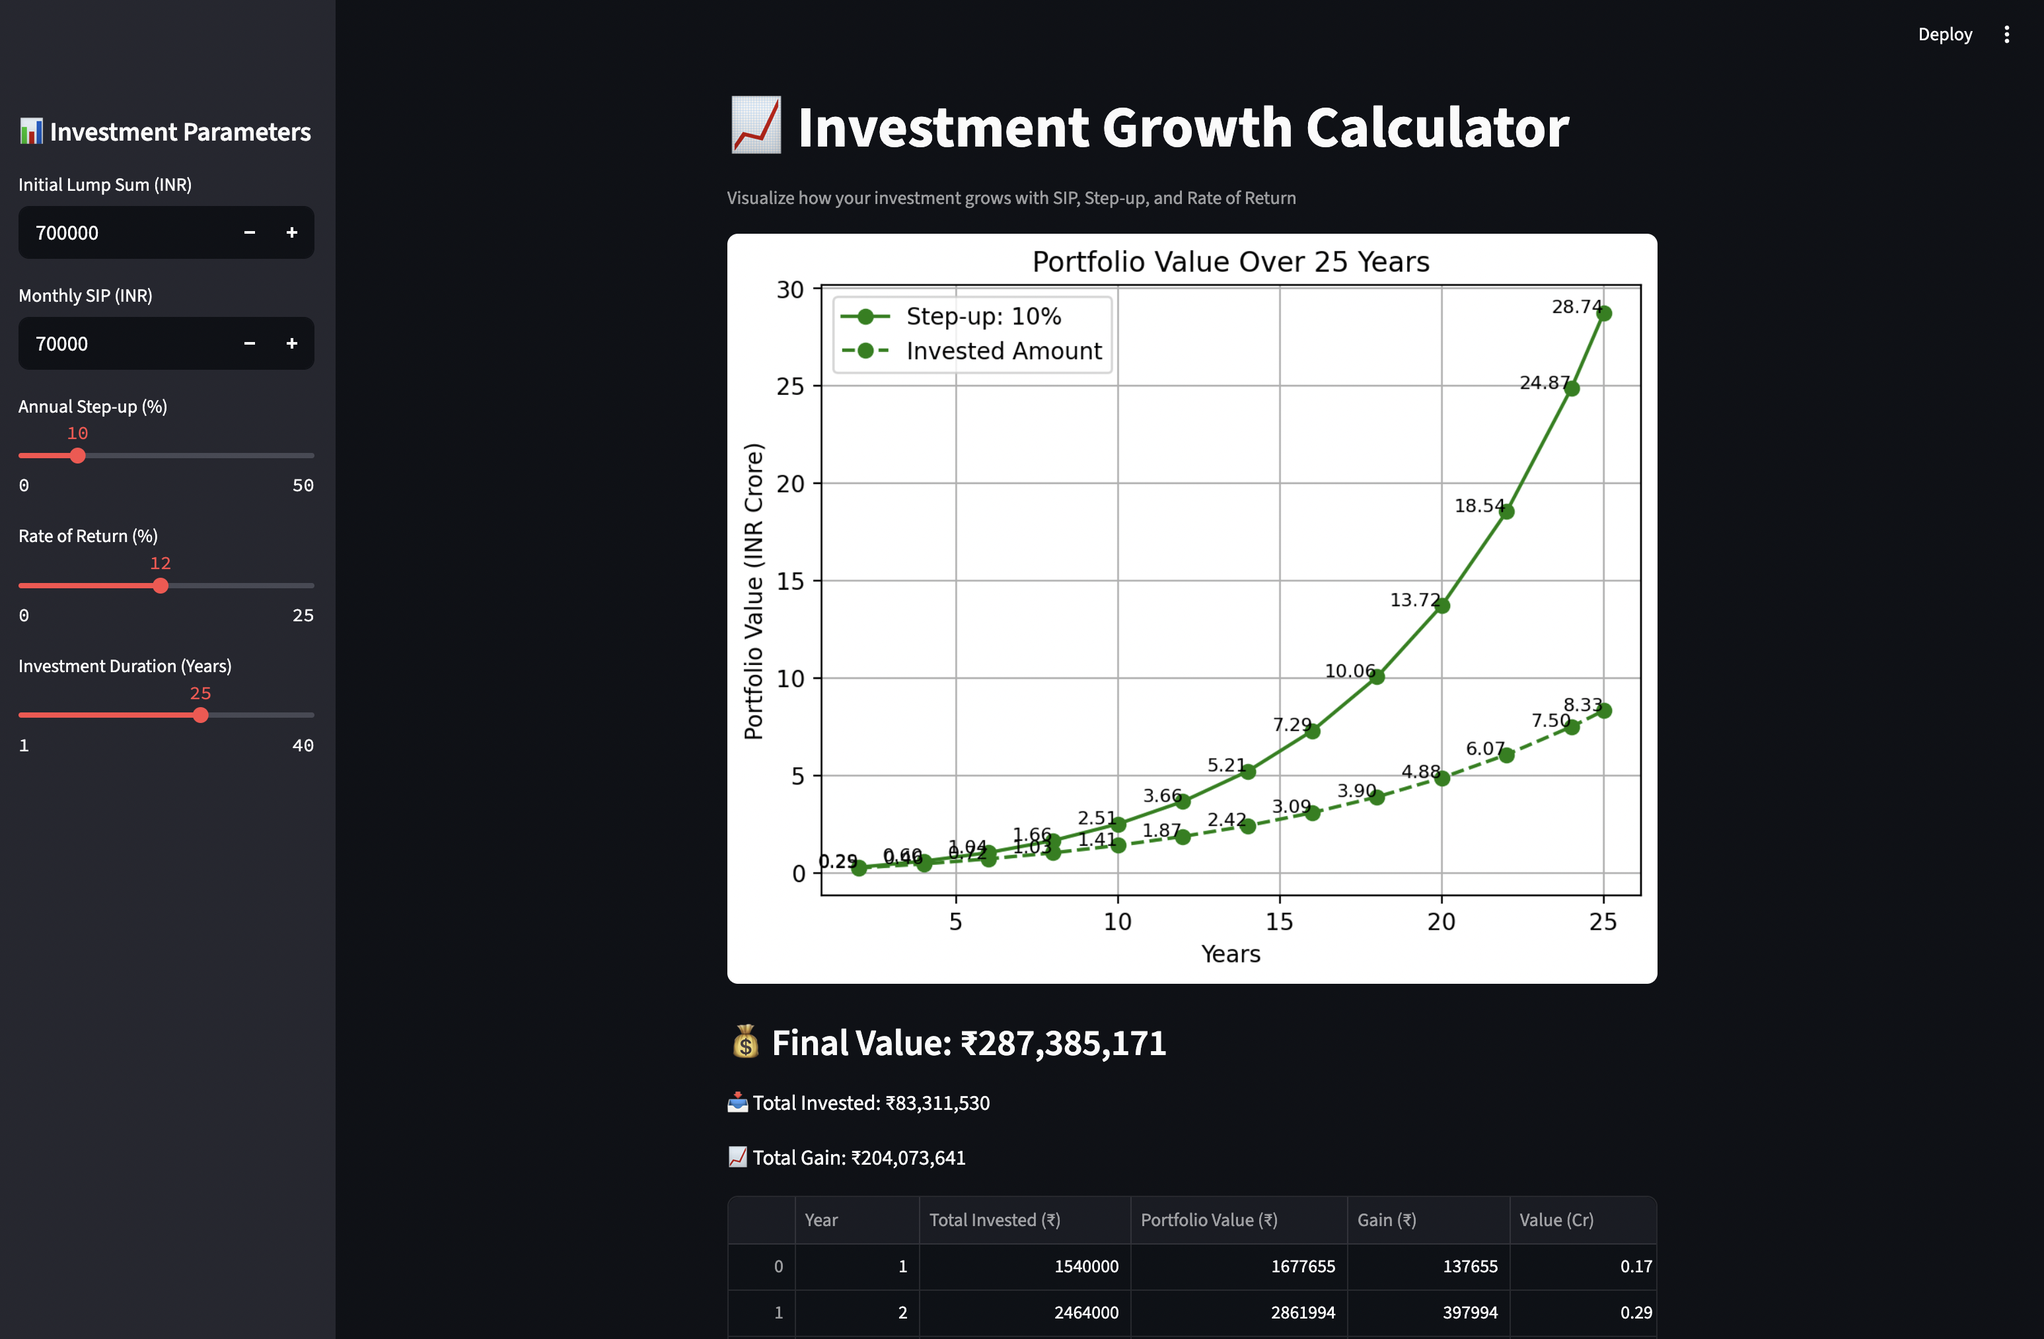
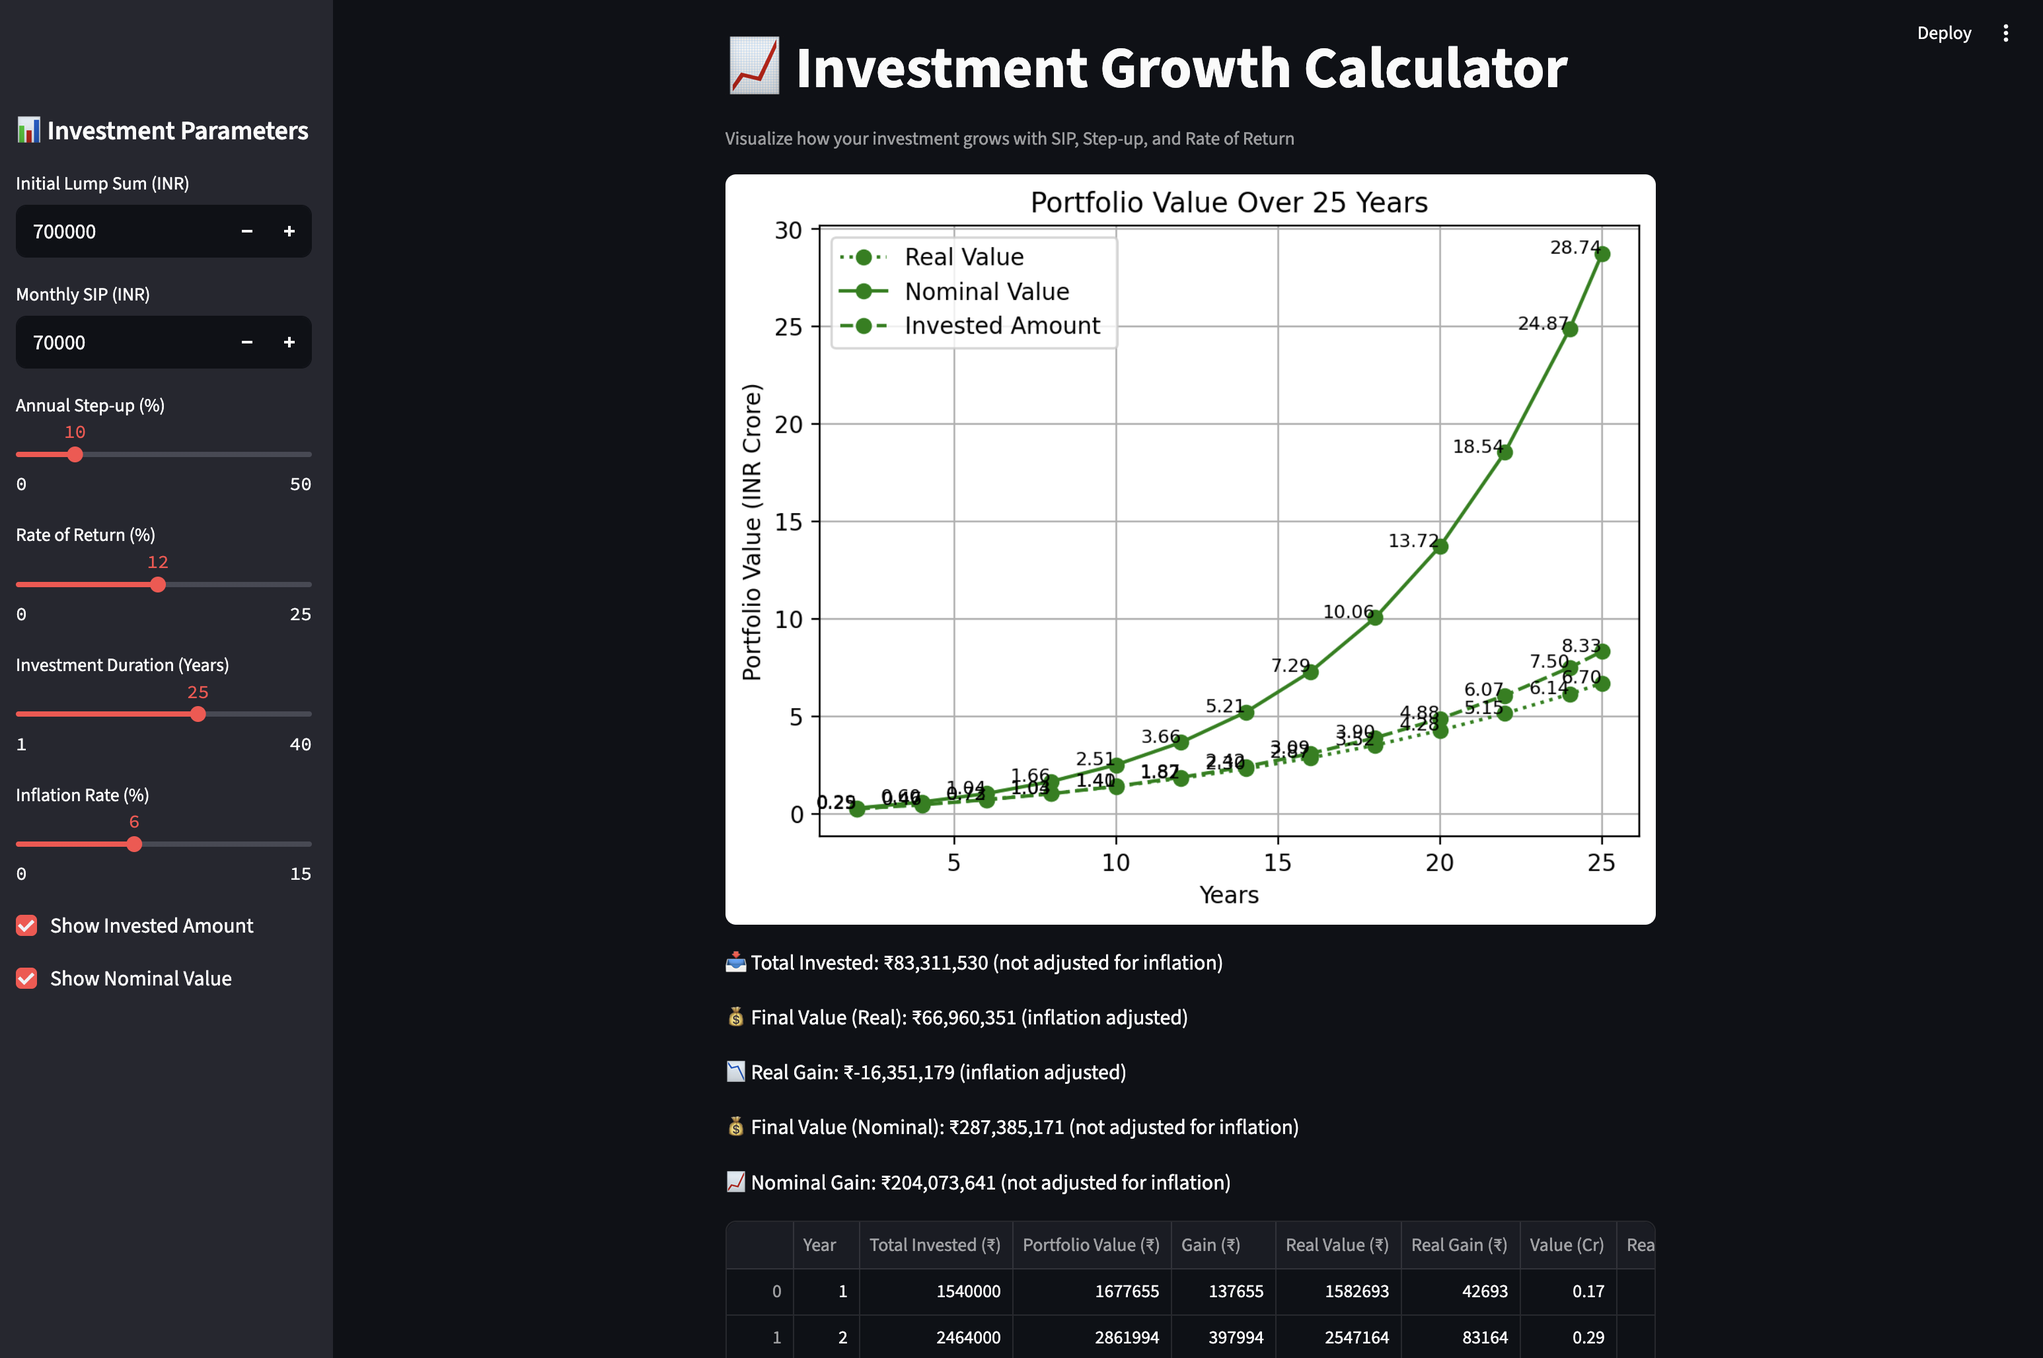
feat: adjust for inflation

diff --git a/yoy_stepup_sip.py b/yoy_stepup_sip.py
@@ -13,7 +13,8 @@ def calculate_yearly_growth(
     monthly_sip: float,
     annual_step_up: float,
     annual_rate_of_return: float,
-    years: int
+    years: int,
+    inflation_rate: float = 0.0  # <-- NEW PARAM
 ):
     monthly_rate_of_return = (1 + annual_rate_of_return / 100) ** (1/12) - 1
     portfolio_value = initial_lump_sum
@@ -28,19 +29,27 @@ def calculate_yearly_growth(
             portfolio_value *= (1 + monthly_rate_of_return)
         total_invested += current_sip * 12
 
+        # Inflation adjustment
+        inflation_multiplier = (1 + inflation_rate / 100) ** year
+        real_value = portfolio_value / inflation_multiplier
+        real_gain = real_value - total_invested
+
         yearly_data.append({
             "year": year,
             "invested": round(total_invested),
             "value": round(portfolio_value),
             "gain": round(portfolio_value - total_invested),
+            "real_value": round(real_value),
+            "real_gain": round(real_gain),
             "invested_crore": round(total_invested / 1e7, 2),
-            "value_crore": round(portfolio_value / 1e7, 2)
+            "value_crore": round(portfolio_value / 1e7, 2),
+            "real_value_crore": round(real_value / 1e7, 2)
         })
 
     return yearly_data
 
 
-def plot_growth(years: int, yearly_data: list[dict], title: str, color: str = 'b', marker: str = 'o', label: str = "Step-up: NA", show_invested: bool = False):
+def plot_growth(years: int, yearly_data: list[dict], title: str, color: str = 'b', marker: str = 'o', label: str = "Step-up: NA", show_invested: bool = False, show_nominal: bool = False):
     # Determine the interval for displaying data points based on the number of years
     if years <= 10:
         interval = 1
@@ -55,14 +64,20 @@ def plot_growth(years: int, yearly_data: list[dict], title: str, color: str = 'b
     years_list = [d["year"] for d in filtered_yearly_data]
     values = [d["value_crore"] for d in filtered_yearly_data]
     invested_amounts = [d["invested_crore"] for d in filtered_yearly_data]
+    real_values = [d["real_value_crore"] for d in filtered_yearly_data]
 
-    plt.plot(years_list, values, marker=marker, linestyle='-', color=color, label=label)
-    for x, y in zip(years_list, values):
+    plt.plot(years_list, real_values, marker=marker, linestyle=':', color=color, label=f"Real Value {label}")
+    for x, y in zip(years_list, real_values):
         plt.text(x, y, f'{y:.2f}', fontsize=8, ha='right')
+    if show_nominal:
+        plt.plot(years_list, values, marker=marker, linestyle='-', color=color, label=f"Nominal Value {label}")
+        for x, y in zip(years_list, values):
+            plt.text(x, y, f'{y:.2f}', fontsize=8, ha='right')
     if show_invested:
-        plt.plot(years_list, invested_amounts, marker=marker, linestyle='--', color=color, label='Invested Amount')
+        plt.plot(years_list, invested_amounts, marker=marker, linestyle='--', color=color, label=f"Invested Amount {label}")
         for x, y in zip(years_list, invested_amounts):
             plt.text(x, y, f'{y:.2f}', fontsize=8, ha='right')
+    
     plt.title(title)
     plt.xlabel('Years')
     plt.ylabel('Portfolio Value (INR Crore)')
@@ -78,6 +93,8 @@ def plot_multiple_growths(
     rates_of_return: str = typer.Option("10,14,18", help="Comma-separated list of annual rates of return in percentage"),
     years: int = typer.Option(25, help="Number of years for the investment"),
     show_invested: bool = typer.Option(False, help="Show invested amount in the plot. Might clutter the plot with many lines in case of multiple step-up values."),
+    show_nominal: bool = typer.Option(False, help="Show nominal values in the plot. Useful for comparing with real values adjusted for inflation."),
+    inflation_rate: float = typer.Option(0.0, help="Annual inflation rate in percentage"),
     colors: str = typer.Option(None, help="Comma-separated list of colors for the plots"),
     markers: str = typer.Option(None, help="Comma-separated list of markers for the plots"),
     save_as: str = typer.Option(None, help="File name to save the plot")
@@ -97,7 +114,7 @@ def plot_multiple_growths(
     
     fig, axs = plt.subplots(num_rows, num_cols, figsize=(15, 10))
     fig.tight_layout(pad=4.0)
-    fig.suptitle(f'Investment Growth Over {years} Years\nInitial Lump Sum: INR {initial_lump_sum}', fontsize=12, fontstyle='italic')
+    fig.suptitle(f'Investment Growth Over {years} Years with {inflation_rate}% Inflation\nInitial Lump Sum: INR {initial_lump_sum}', fontsize=12, fontstyle='italic')
     plt.subplots_adjust(top=0.9, hspace=0.4, wspace=0.4)
     
     if not colors_list:
@@ -117,8 +134,8 @@ def plot_multiple_growths(
             plt.sca(ax)
             title = f'SIP: {sip}, Rate: {rate}%'
             for step_up in step_ups_list:
-                yearly_growth = calculate_yearly_growth(initial_lump_sum, sip, step_up, rate, years)
-                plot_growth(years, yearly_growth, title, color=next(color_cycle), marker=next(marker_cycle), label=f'Step-up: {step_up}%', show_invested=show_invested)
+                yearly_growth = calculate_yearly_growth(initial_lump_sum, sip, step_up, rate, years, inflation_rate)
+                plot_growth(years, yearly_growth, title, color=next(color_cycle), marker=next(marker_cycle), label=f'Step-up: {step_up}%', show_invested=show_invested, show_nominal=show_nominal)
     if save_as:
         plt.savefig(save_as)
     
@@ -131,6 +148,7 @@ def show_summary(
     step_ups: str = typer.Option("0,10", help="Comma-separated list of annual step-up percentages"),
     rates_of_return: str = typer.Option("10,14,18", help="Comma-separated list of annual rates of return in percentage"),
     years: int = typer.Option(25, help="Number of years for the investment"),
+    inflation_rate: float = typer.Option(0.0, help="Annual inflation rate in percentage"),
     save_as_csv: str = typer.Option(None, help="File name to save the summary as CSV")
 ):
     """
@@ -141,28 +159,30 @@ def show_summary(
     step_ups_list = [float(x) for x in step_ups.split(',')]
     rates_of_return_list = [float(x) for x in rates_of_return.split(',')]
     
-    table = Table(title=f"Investment Growth Summary Over {years} Years\nInitial Lump Sum: INR {initial_lump_sum}")
+    table = Table(title=f"Investment Growth Summary Over {years} Years with {inflation_rate}% Inflation\nInitial Lump Sum: INR {initial_lump_sum}")
 
     table.add_column("SIP Amount (INR)", justify="right")
     table.add_column("Step-up (%)", justify="right")
     table.add_column("Rate of Return (%)", justify="right")
-    table.add_column(f"Value After {years} Years (INR Crore)", justify="right")
+    table.add_column(f"Invested Amount After {years} Years (INR Crore)", justify="right")
+    table.add_column(f"Real Value After {years} Years (INR Crore)", justify="right")
+    table.add_column(f"Nominal Value After {years} Years (INR Crore)", justify="right")
 
     rows = []
     for sip in sip_amounts_list:
         for step_up in step_ups_list:
             for rate in rates_of_return_list:
-                yearly_data = calculate_yearly_growth(initial_lump_sum, sip, step_up, rate, years)
+                yearly_data = calculate_yearly_growth(initial_lump_sum, sip, step_up, rate, years, inflation_rate)
                 final = yearly_data[-1]
-                rows.append([sip, step_up, rate, f"{final['value_crore']:.2f}"])
-                table.add_row(str(sip), str(step_up), str(rate), f"{final['value_crore']:.2f}")
+                rows.append([sip, step_up, rate, f"{final['invested_crore']:.2f}",f"{final['real_value_crore']:.2f}", f"{final['value_crore']:.2f}"])
+                table.add_row(str(sip), str(step_up), str(rate),  f"{final['invested_crore']:.2f}",f"{final['real_value_crore']:.2f}", f"{final['value_crore']:.2f}")
     
     console.print(table)
 
     if save_as_csv:
         with open(save_as_csv, mode='w', newline='') as file:
             writer = csv.writer(file)
-            writer.writerow(["SIP Amount (INR)", "Step-up (%)", "Rate of Return (%)", f"Value After {years} Years (INR Crore)"])
+            writer.writerow(["SIP Amount (INR)", "Step-up (%)", "Rate of Return (%)", f"Real Value After {years} Years (INR Crore)", f"Invested Amount After {years} Years (INR Crore)"])
             writer.writerows(rows)
 
 if __name__ == "__main__":

diff --git a/app.py b/app.py
@@ -15,9 +15,13 @@ sip = st.sidebar.number_input("Monthly SIP (INR)", value=70000, step=1000)
 step_up = st.sidebar.slider("Annual Step-up (%)", 0, 50, 10)
 rate = st.sidebar.slider("Rate of Return (%)", 0, 25, 12)
 years = st.sidebar.slider("Investment Duration (Years)", 1, 40, 25)
+inflation = st.sidebar.slider("Inflation Rate (%)", 0, 15, 6)
+
+show_invested = st.sidebar.checkbox("Show Invested Amount", value=True)
+show_nominal = st.sidebar.checkbox("Show Nominal Value", value=True)
 
 # Calculate growth
-yearly_data = calculate_yearly_growth(initial, sip, step_up, rate, years)
+yearly_data = calculate_yearly_growth(initial, sip, step_up, rate, years, inflation)
 
 # Plotting
 fig, ax = plt.subplots()
@@ -28,22 +32,28 @@ plot_growth(
     title=f"Portfolio Value Over {years} Years",
     color='green',
     marker='o',
-    label=f"Step-up: {step_up}%",
-    show_invested=True,
+    label=f"",
+    show_invested=show_invested,
+    show_nominal=show_nominal
 )
 
 st.pyplot(fig)
 
 # Summary
 final = yearly_data[-1]
-st.subheader(f"💰 Final Value: ₹{final['value']:,}")
-st.write(f"📥 Total Invested: ₹{final['invested']:,}")
-st.write(f"📈 Total Gain: ₹{final['gain']:,}")
+st.write(f"📥 Total Invested: ₹{final['invested']:,} (not adjusted for inflation)")
+st.write(f"💰 Final Value (Real): ₹{final['real_value']:,} (inflation adjusted)")
+st.write(f"📉 Real Gain: ₹{final['real_gain']:,} (inflation adjusted)")
+st.write(f"💰 Final Value (Nominal): ₹{final['value']:,} (not adjusted for inflation)")
+st.write(f"📈 Nominal Gain: ₹{final['gain']:,} (not adjusted for inflation)")
 
 # Dataframe
 df = pd.DataFrame(yearly_data)
-df_display = df[["year", "invested", "value", "gain", "value_crore"]]
-df_display.columns = ["Year", "Total Invested (₹)", "Portfolio Value (₹)", "Gain (₹)", "Value (Cr)"]
+df_display = df[["year", "invested", "value", "gain", "real_value", "real_gain", "value_crore", "real_value_crore"]]
+df_display.columns = [
+    "Year", "Total Invested (₹)", "Portfolio Value (₹)", "Gain (₹)",
+    "Real Value (₹)", "Real Gain (₹)", "Value (Cr)", "Real Value (Cr)"
+]
 st.dataframe(df_display, use_container_width=True)
 
 # Download CSV

diff --git a/README.md b/README.md
@@ -54,6 +54,10 @@ streamlit run app.py
 │ --show-invested       --no-show-invested             Show invested amount in the plot. Might clutter the plot with many lines in case of         │
 │                                                      multiple step-up values.                                                                    │
 │                                                      [default: no-show-invested]                                                                 │
+│ --show-nominal        --no-show-nominal              Show nominal values in the plot. Useful for comparing with real values adjusted for         │
+│                                                      inflation.                                                                                  │
+│                                                      [default: no-show-nominal]                                                                  │
+│ --inflation-rate                            FLOAT    Annual inflation rate in percentage [default: 0.0]                                          │
 │ --colors                                    TEXT     Comma-separated list of colors for the plots [default: None]                                │
 │ --markers                                   TEXT     Comma-separated list of markers for the plots [default: None]                               │
 │ --save-as                                   TEXT     File name to save the plot [default: None]                                                  │
@@ -69,15 +73,16 @@ streamlit run app.py
                                                                                                                                                                        
  Usage: yoy_stepup_sip.py show-summary [OPTIONS]                                                                                                                       
                                                                                                                                                                        
- Show a summary table of investment growth and optionally save it as a CSV file.                                                                                       
-                                                                                                                                                                       
-╭─ Options ───────────────────────────────────────────────────────────────────────────────────────────────────────────────────────────────────────────────────────────╮
-│ --initial-lump-sum        FLOAT    Initial lump sum investment in INR [default: 700000]                                                                             │
-│ --sip-amounts             TEXT     Comma-separated list of SIP amounts in INR [default: 70000,120000,250000]                                                        │
-│ --step-ups                TEXT     Comma-separated list of annual step-up percentages [default: 0,10]                                                               │
-│ --rates-of-return         TEXT     Comma-separated list of annual rates of return in percentage [default: 10,14,18]                                                 │
-│ --years                   INTEGER  Number of years for the investment [default: 25]                                                                                 │
-│ --save-as-csv             TEXT     File name to save the summary as CSV [default: None]                                                                             │
-│ --help                             Show this message and exit.                                                                                                      │
-╰─────────────────────────────────────────────────────────────────────────────────────────────────────────────────────────────────────────────────────────────────────╯
+ Show a summary table of investment growth and optionally save it as a CSV file.                                                                    
+                                                                                                                                                    
+╭─ Options ────────────────────────────────────────────────────────────────────────────────────────────────────────────────────────────────────────╮
+│ --initial-lump-sum        FLOAT    Initial lump sum investment in INR [default: 700000]                                                          │
+│ --sip-amounts             TEXT     Comma-separated list of SIP amounts in INR [default: 70000,120000,250000]                                     │
+│ --step-ups                TEXT     Comma-separated list of annual step-up percentages [default: 0,10]                                            │
+│ --rates-of-return         TEXT     Comma-separated list of annual rates of return in percentage [default: 10,14,18]                              │
+│ --years                   INTEGER  Number of years for the investment [default: 25]                                                              │
+│ --inflation-rate          FLOAT    Annual inflation rate in percentage [default: 0.0]                                                            │
+│ --save-as-csv             TEXT     File name to save the summary as CSV [default: None]                                                          │
+│ --help                             Show this message and exit.                                                                                   │
+╰──────────────────────────────────────────────────────────────────────────────────────────────────────────────────────────────────────────────────╯
 ```
